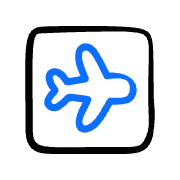
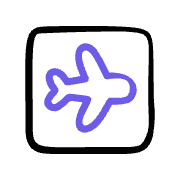
포인트 컬러를 보라색(#6C5CE7)으로 변경
- 60-30-10 배색 원칙에 따라 배경/텍스트는 유지하고 강조색만 교체
- 앱 아이콘/파비콘 비행기 색상, 잔액 카드/현금 아이콘 포인트 컬러 적용
- 예약 필요/준비물 체크박스 체크 상태 색상도 포인트 컬러로 적용

Changed region(s): [[0.2222, 0.2222, 0.7778, 0.75]]

diff --git a/src/App.css b/src/App.css
@@ -251,7 +251,7 @@
 
 .item-card__route-title {
   font-size: 15px;
-  font-weight: 400;
+  font-weight: 500;
   margin-bottom: 4px;
 }
 
@@ -356,6 +356,10 @@
   cursor: pointer;
 }
 
+.prep-list__row input[type='checkbox'] {
+  accent-color: var(--color-primary);
+}
+
 .prep-list__label--checked {
   color: var(--color-text-muted);
   text-decoration: line-through;
@@ -430,6 +434,10 @@
   font-weight: 600;
   color: var(--color-text);
   cursor: pointer;
+}
+
+.checkbox-field input[type='checkbox'] {
+  accent-color: var(--color-primary);
 }
 
 .reservation-tag {

diff --git a/src/components/icons/CardIcon.tsx b/src/components/icons/CardIcon.tsx
@@ -1,6 +1,6 @@
 export function CardIcon({ original }: { original?: boolean }) {
   const dark = original ? '#020202' : 'currentColor';
-  const blue = original ? '#0c6fff' : 'currentColor';
+  const blue = original ? 'var(--color-primary)' : 'currentColor';
   return (
     <svg width="16" height="16" viewBox="0 0 24 24" fill="none" xmlns="http://www.w3.org/2000/svg">
       <path

diff --git a/src/components/icons/CashIcon.tsx b/src/components/icons/CashIcon.tsx
@@ -1,6 +1,6 @@
 export function CashIcon({ original }: { original?: boolean }) {
   const dark = original ? '#020202' : 'currentColor';
-  const blue = original ? '#0c6fff' : 'currentColor';
+  const blue = original ? 'var(--color-primary)' : 'currentColor';
   return (
     <svg width="16" height="16" viewBox="0 0 24 24" fill="none" xmlns="http://www.w3.org/2000/svg">
       <path

diff --git a/src/index.css b/src/index.css
@@ -4,8 +4,8 @@
   --color-border: #e6e4ee;
   --color-text: #201f2b;
   --color-text-muted: #7c7a8a;
-  --color-primary: #007aff;
-  --color-primary-soft: #e0efff;
+  --color-primary: #6c5ce7;
+  --color-primary-soft: #edebfc;
   --color-danger: #e5484d;
   color-scheme: light;
 }
